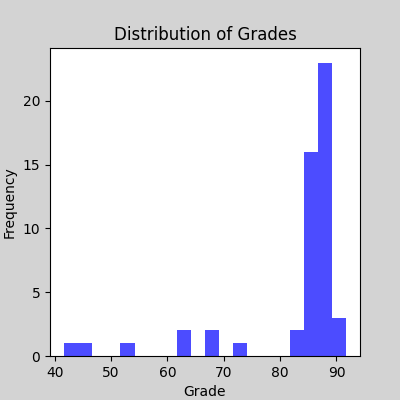
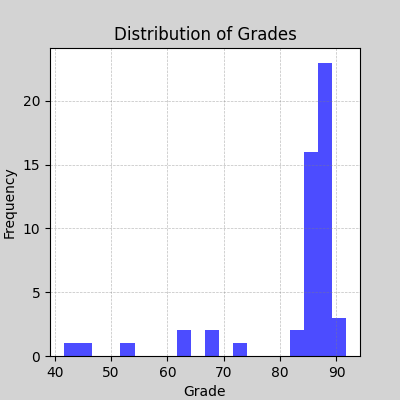
Download result csv
Now the user can download the resulting csv. Also the table of students is sorted by name.
The histogram now hasa subtle grid.

diff --git a/flask/templates/index.html b/flask/templates/index.html
@@ -30,18 +30,18 @@
         <section id="grades" class="fs-5 d-flex flex-wrap justify-content-evenly">
             <p>
                 Highest grade: 
-                <span class="text-light bg-primary rounded p-1">{{ highest_grade }}</span>
+                <span class="text-light bg-success rounded p-1">{{ highest_grade }}</span>
             </p>
             <p>
                 Average grade: 
-                <span class="text-light bg-warning rounded p-1">{{ average_grade }}</span> 
+                <span class="text-light bg-primary rounded p-1">{{ average_grade }}</span> 
             </p>
             <p>
                 Lowest grade: 
                 <span class="text-light bg-danger rounded p-1">{{ lowest_grade }}</span> 
             </p>
         </section>
-        
+       
         <!-- ? All students table -->
         <section class="container bg-secondary rounded">
             {{ table|safe }}
@@ -52,6 +52,8 @@
             <img src="{{ url_for('static', filename='img/pie_chart.png') }}" alt="pie chart" class="rounded">
             <img src="{{ url_for('static', filename='img/histogram.png') }}" alt="histogram chart" class="rounded">
         </section>
+
+        <a href="{{ url_for('download_file') }}" class="btn btn-primary my-4 d-block m-auto w-25" download="students_result.csv">Download resulting file</a>
 
         {{ bootstrap.load_js() }}
     </main>

diff --git a/flask/server.py b/flask/server.py
@@ -1,4 +1,4 @@
-from flask import Flask, render_template
+from flask import Flask, render_template, send_from_directory
 from flask_bootstrap import Bootstrap5
 from dataframes import get_students_status, get_highest_grade, get_lowest_grade, get_average_grade, passed_students_count,  failed_students_count
 from plots import plot_pie_chart, plot_histogram
@@ -23,6 +23,10 @@ def index():
     histogram_path = plot_histogram()
 
     return render_template("index.html", table=table_html, passed_students_num=passed_students_num, failed_students_num=failed_students_num, average_grade=average_grade, highest_grade=highest_grade, lowest_grade=lowest_grade, pie_chart=pie_chart_path, histogram=histogram_path)
+
+@app.route("/download")
+def download_file():
+    return send_from_directory("static/output", "students_result.csv", as_attachment=True)
 
 
 if __name__ == "__main__":

diff --git a/flask/dataframes.py b/flask/dataframes.py
@@ -14,7 +14,8 @@ def get_students_grades():
 def get_students_status():
     df = get_students_grades()
     df['status'] = df['grade'].apply(lambda x: "passed" if x >= 60 else "failed")
-    return df
+    df.to_csv("static/output/students_result.csv", index=False)
+    return df.sort_values(by='student name', ascending=True)
 
 def get_highest_grade():
     df = get_students_grades()

diff --git a/flask/plots.py b/flask/plots.py
@@ -31,6 +31,7 @@ def plot_histogram():
 
     plt.figure(figsize=(4, 4), facecolor='lightgray')
     plt.hist(df['grade'], bins=20, color="blue", alpha=0.7)
+    plt.grid(color='gray', linestyle='--', linewidth=0.5, alpha=0.5)
     plt.xlabel('Grade')
     plt.ylabel("Frequency")
     plt.title("Distribution of Grades")
